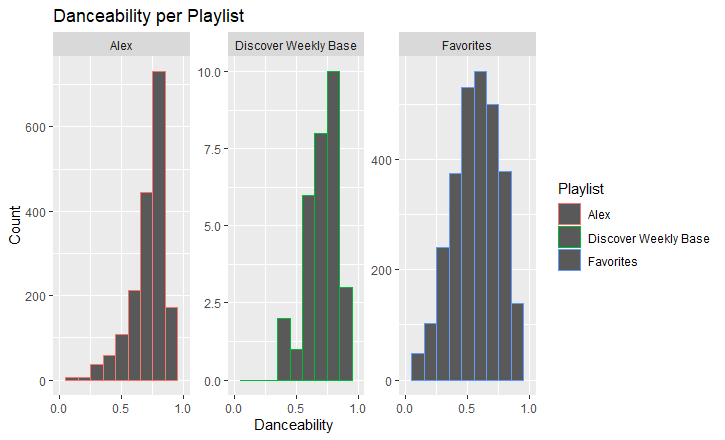
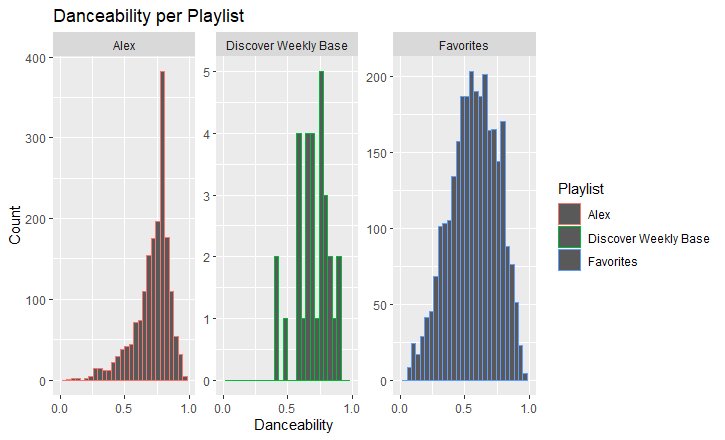
Better plots

diff --git a/README.md b/README.md
@@ -69,13 +69,13 @@ Now that we have this baseline comparison, I will start listening only to ALex's
 ## Visualisation
 
 There are 3 things I want to visualize. 
-1. The baseline differences.
-2. The changes over time for discover weekly.
-3.
+__1.__ The baseline differences.
+__2.__ The changes over time for discover weekly.
+__3.__
 
 
 
-1. The baseline differences:
+#### 1. The baseline differences:
 These are the visualisations for the features danceability, energy, tempo and instrumentalness for the different playlists: Alex's favourites, my favourites, and the discover weekly of week We use these plots to look at the baseline differences.
 
 ![The energy](energy_week7.png)
@@ -94,8 +94,8 @@ However because Alex's and my playlist have so many songs, it becomes a bit hard
 
 ![Multiple Features Sample](better_features_week7.png)
 
-2. The changes over time for discover weekly.
+#### 2. The changes over time for discover weekly.
 This will be a plot showing how the features will change for the discover weekly playlist over time.
 
-Here will
+
 
